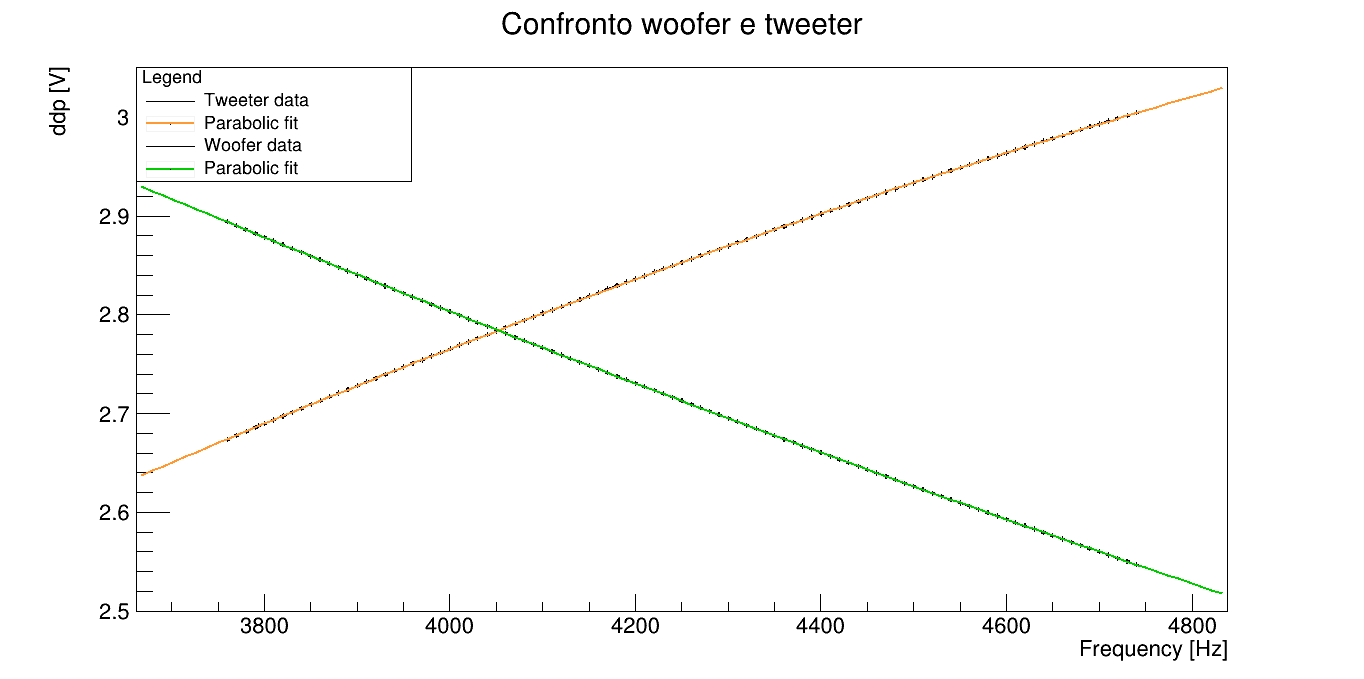
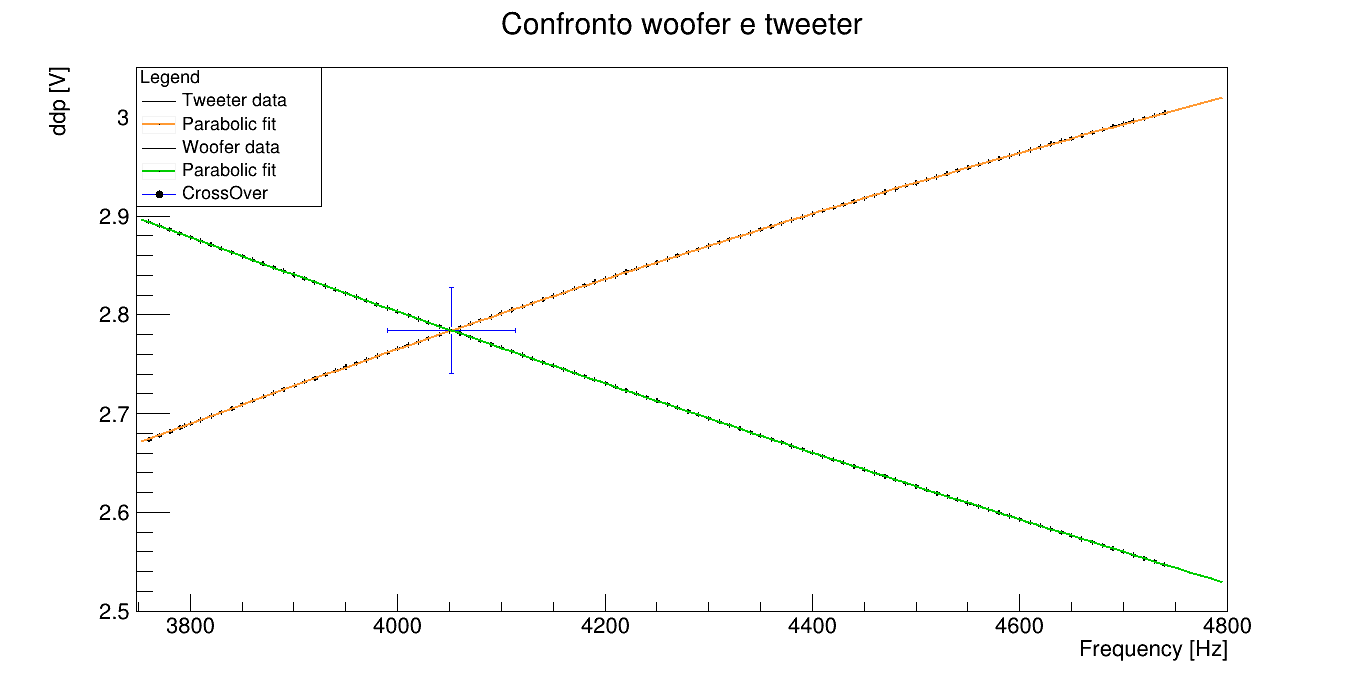
Add files via upload

diff --git a/frequenza range ristretto/AnalisiFrequenze.cpp b/frequenza range ristretto/AnalisiFrequenze.cpp
@@ -27,7 +27,10 @@ R__LOAD_LIBRARY(myFunction_cpp.so);
 int SmallRange(bool draw = false) {
   TGraphErrors* Tweeter = new TGraphErrors("tweeter.txt", "%lg%lg%lg%lg", "");
   TGraphErrors* Woofer = new TGraphErrors("woofer.txt", "%lg%lg%lg%lg", "");
+
   TF1* parabola = new TF1("parabola", "[0]*x*x + [1]*x + [2]", 3000., 5000.);
+
+  misura X1{}, X2{}, Y1{}, Y2{};
 
   char s{};
 
@@ -37,58 +40,23 @@ int SmallRange(bool draw = false) {
   Woofer->Fit("parabola", "R");
   TF1* FitWoofer = Woofer->GetFunction("parabola");
 
-  double const* Tpar = FitTweeter->GetParameters();
-  double const* Wpar = FitWoofer->GetParameters();
-  double const* TparError = FitTweeter->GetParErrors();
-  double const* WparError = FitWoofer->GetParErrors();
-
-  double const a = Tpar[0] - Wpar[0];
-  double const b = Tpar[1] - Wpar[1];
-  double const c = Tpar[2] - Wpar[2];
-
-  double const da = TparError[0] + WparError[0];
-  double const db = TparError[1] + WparError[1];
-  double const dc = TparError[2] + WparError[2];
-
-  double const delta = b * b - 4 * a * c;
-
-  if (delta < 0.) {
-    return EXIT_FAILURE;
-  }
-
-  double const f1 = (a == 0.) ? -c / a : (-b + sqrt(delta)) / (2 * a);
-  double const f2 = (a == 0.) ? -c / a : -(b + sqrt(delta)) / (2 * a);
-
-  double const df1 =
-      (a == 0.) ? eval(c / (pow(a, 2))) * da + eval(1 / a) * dc
-                : eval(0.5 * b - 0.5 * sqrt(delta) - a * c / sqrt(delta)) * da /
-                          pow(a, 2) +
-                      eval(0.5 / a * (b / sqrt(delta) - 1)) * db +
-                      eval(1 / sqrt(delta)) * dc;
-
-  double const df2 =
-      (a == 0.) ? eval(c / (pow(a, 2))) * da + eval(1 / a) * dc
-                : eval(0.5 * b + 0.5 * sqrt(delta) + a * c / sqrt(delta)) * da /
-                          pow(a, 2) +
-                      0.5 * eval(1 / a + b / sqrt(delta) / a) * db +
-                      eval(1 / sqrt(delta)) * dc;
+  Intersezione(X1, X2, Y1, Y2, FitTweeter,FitWoofer, false);
 
   std::cout << "\nAnalizzare il rumore? (S/N): ";
   std::cin >> s;
-
   std::cout << '\n';
 
   if (s == 's' || s == 'S') {
-    double f{};
+    double fm{};
     double fStd{};
-    double V{};
+    double Vm{};
     double VStd{};
 
-    Statistic(f, V, fStd, VStd, "rumore.txt");
+    Statistic(fm, Vm, fStd, VStd, "rumore.txt");
 
     std::cout << "Analisi rumore:"
-              << "\n Frequenza: media: " << f << "\tdev. std: " << fStd
-              << "\n ddp:       media: " << V << "\tdev. std: " << VStd
+              << "\n Frequenza: media: " << fm << "\tdev. std: " << fStd
+              << "\n ddp:       media: " << Vm << "\tdev. std: " << VStd
               << "\nConsidera che le ";
   }
 
@@ -97,10 +65,18 @@ int SmallRange(bool draw = false) {
          "dV: 0.000447848\n";
 
   std::cout << "\nCrossOver:\n  f1: ";
-  printData(f1, df1, 4023, "Hz");
-  std::cout << "\n  f2: ";
-  printData(f2, df2, 4023, "Hz");
-  std::cout << '\n';
+  (void)printData(X1, 4023, "Hz");
+  std::cout<<"\t V1: ";
+  (void)printData(Y1, "V");
+  std::cout<<"\n  f2: ";
+  (void)printData(X2, 4023, "Hz");
+  std::cout<<"\t V2: ";
+  (void)printData(Y2, "V");
+
+  double* X = &X1.p;
+  double* dX = &X1.d;
+  double* Y = &Y1.p;
+  double* dY = &Y1.d;
 
   if (draw) {
     TCanvas* TResult = new TCanvas("TResult", "Tweeter fit");
@@ -130,17 +106,24 @@ int SmallRange(bool draw = false) {
     TCanvas* Confronto = new TCanvas("Confronto", "Intersezione dei fit");
     Tweeter->SetTitle("Confronto woofer e tweeter");
     Tweeter->GetYaxis()->SetRangeUser(2.50, 3.05);
+    Tweeter->GetXaxis()->SetRangeUser(3750, 4800);
     Tweeter->Draw();
     FitTweeter->Draw("SAME");
     Woofer->Draw("SAME");
     FitWoofer->Draw("SAME");
+    TGraphErrors* PointCrossOver = new TGraphErrors(1, X, Y, dX, dY);
+    PointCrossOver->SetMarkerStyle(20);
+    PointCrossOver->SetLineColor(kBlue);
+    PointCrossOver->Draw("SAME");
     TLegend* ConfrontoLegend = new TLegend(.1, .7, .3, .9, "Legend");
     ConfrontoLegend->AddEntry(Tweeter, "Tweeter data");
     ConfrontoLegend->AddEntry(FitTweeter, "Parabolic fit");
     ConfrontoLegend->AddEntry(Woofer, "Woofer data");
     ConfrontoLegend->AddEntry(FitWoofer, "Parabolic fit");
+    ConfrontoLegend->AddEntry(PointCrossOver, "CrossOver");
     ConfrontoLegend->Draw("SAME");
   }
 
+  std::cout<<'\n';
   return 0;
 }
